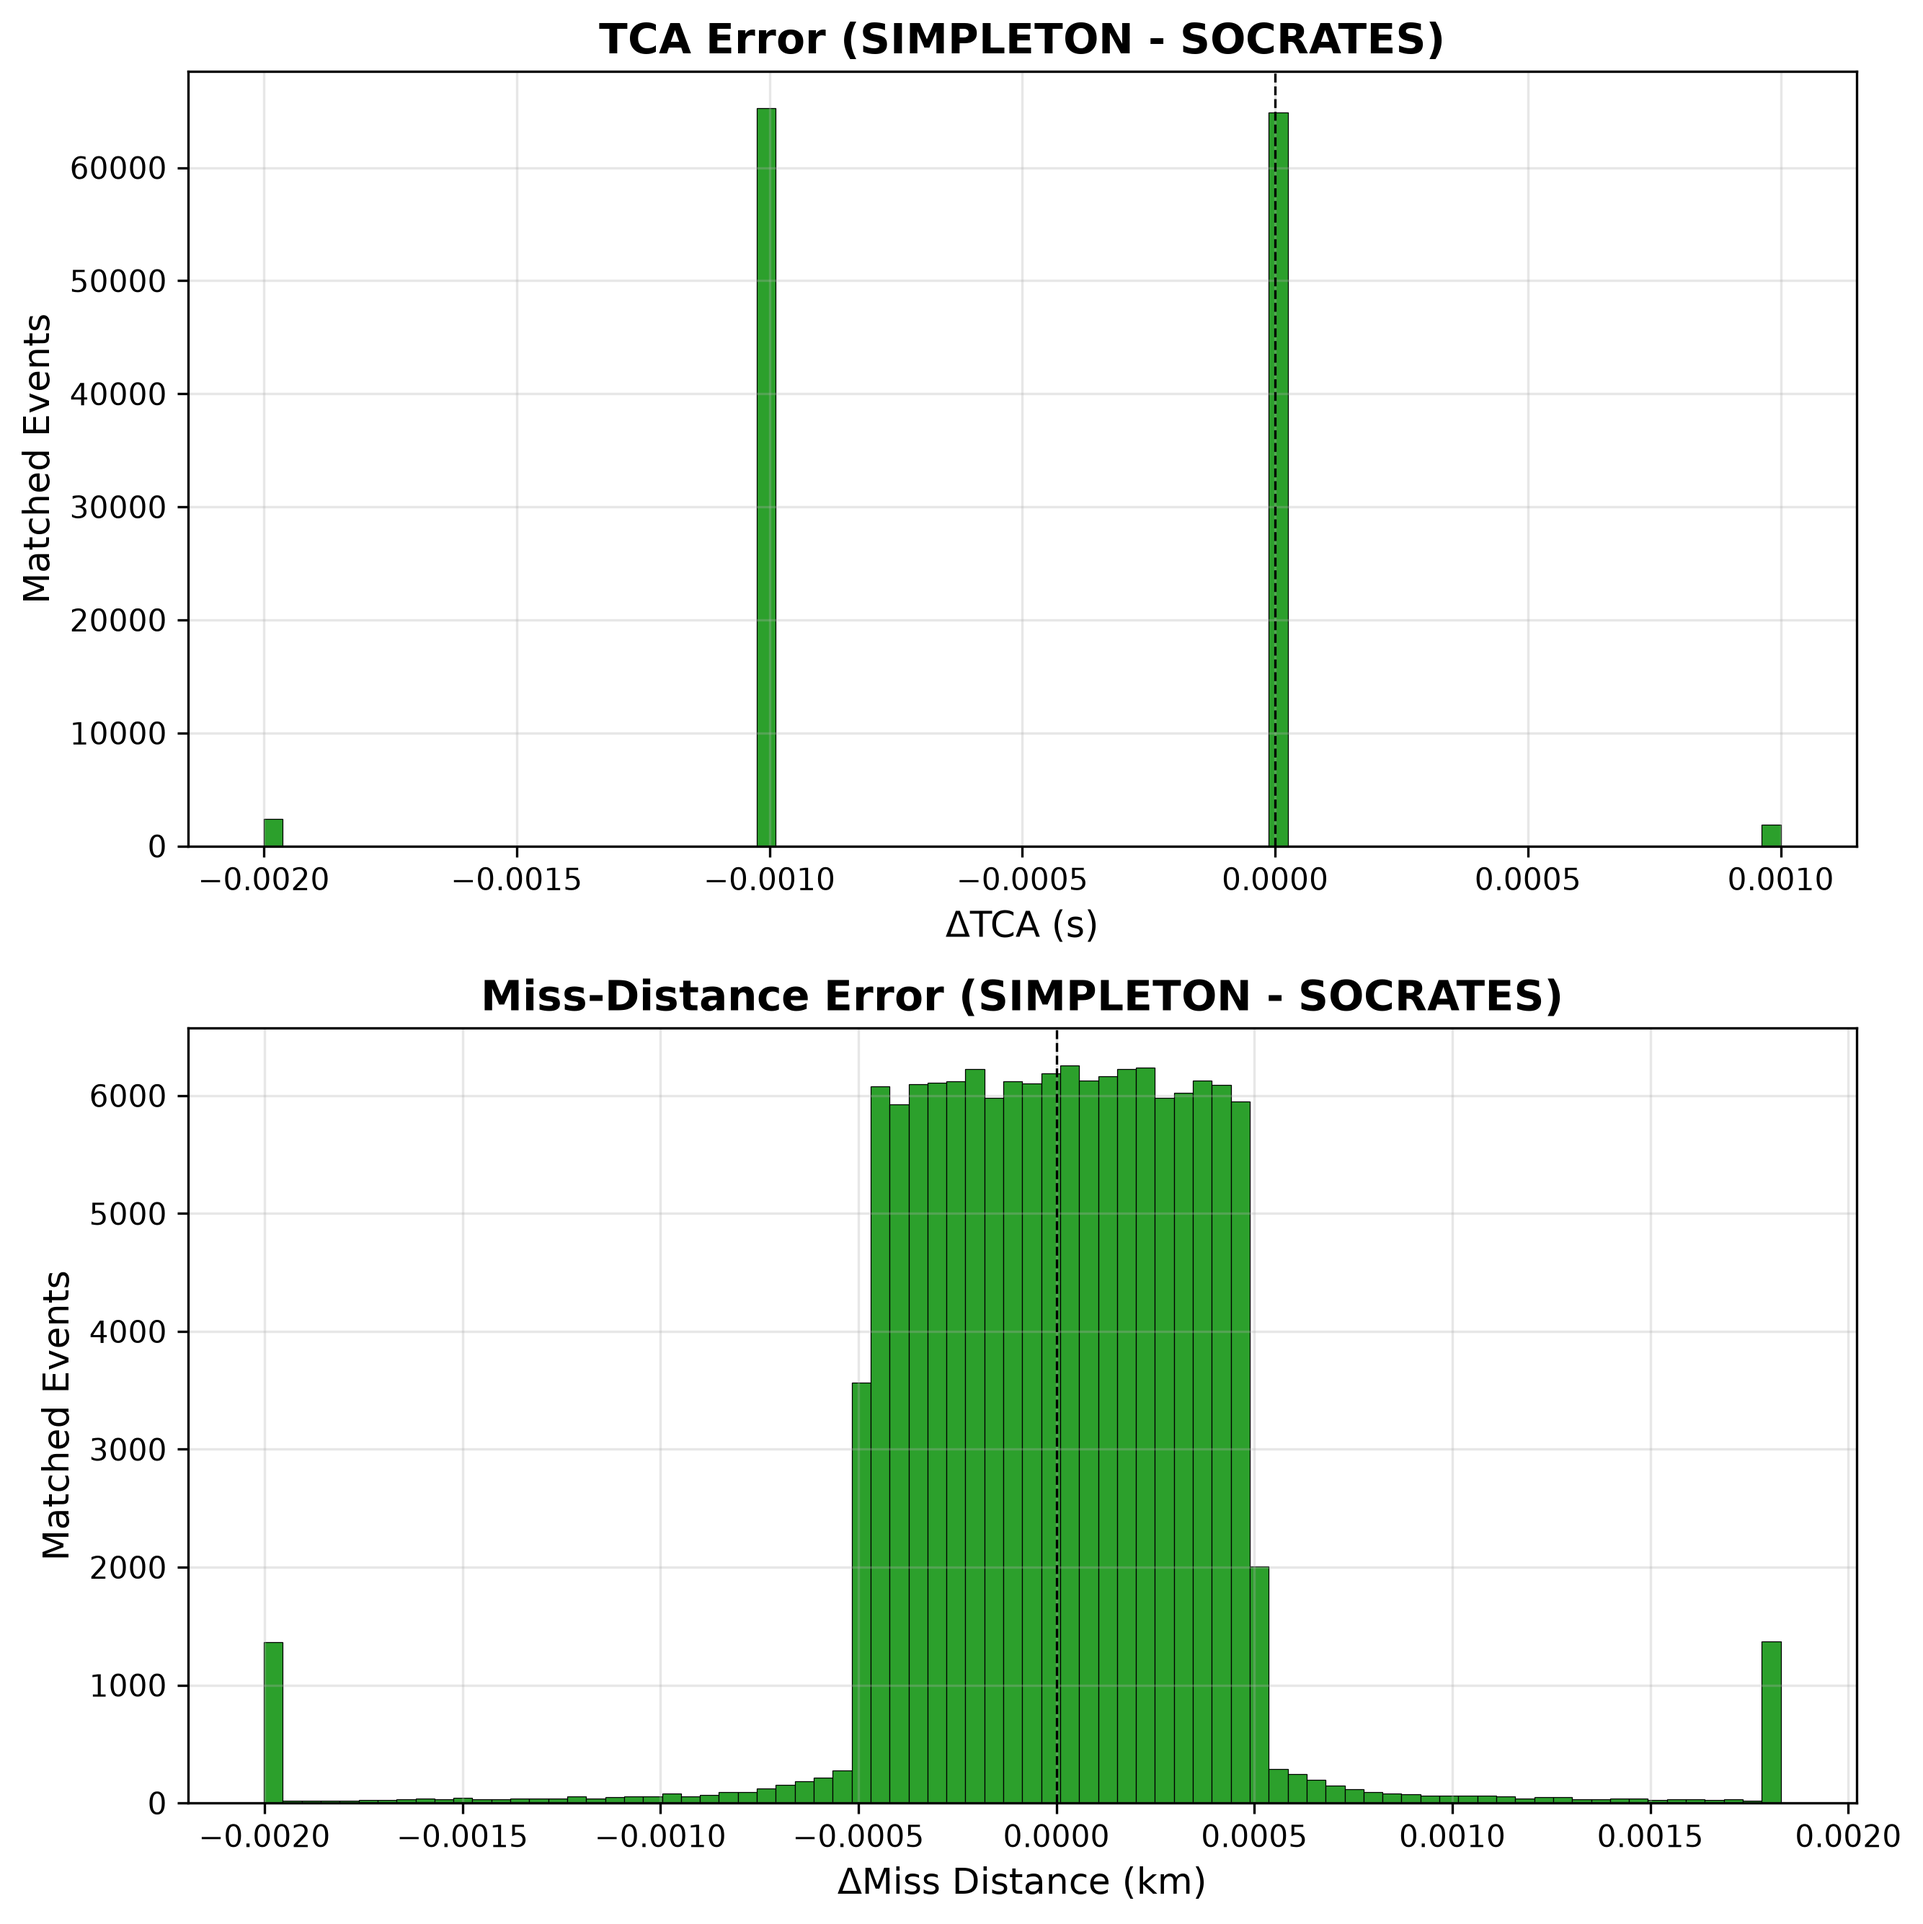
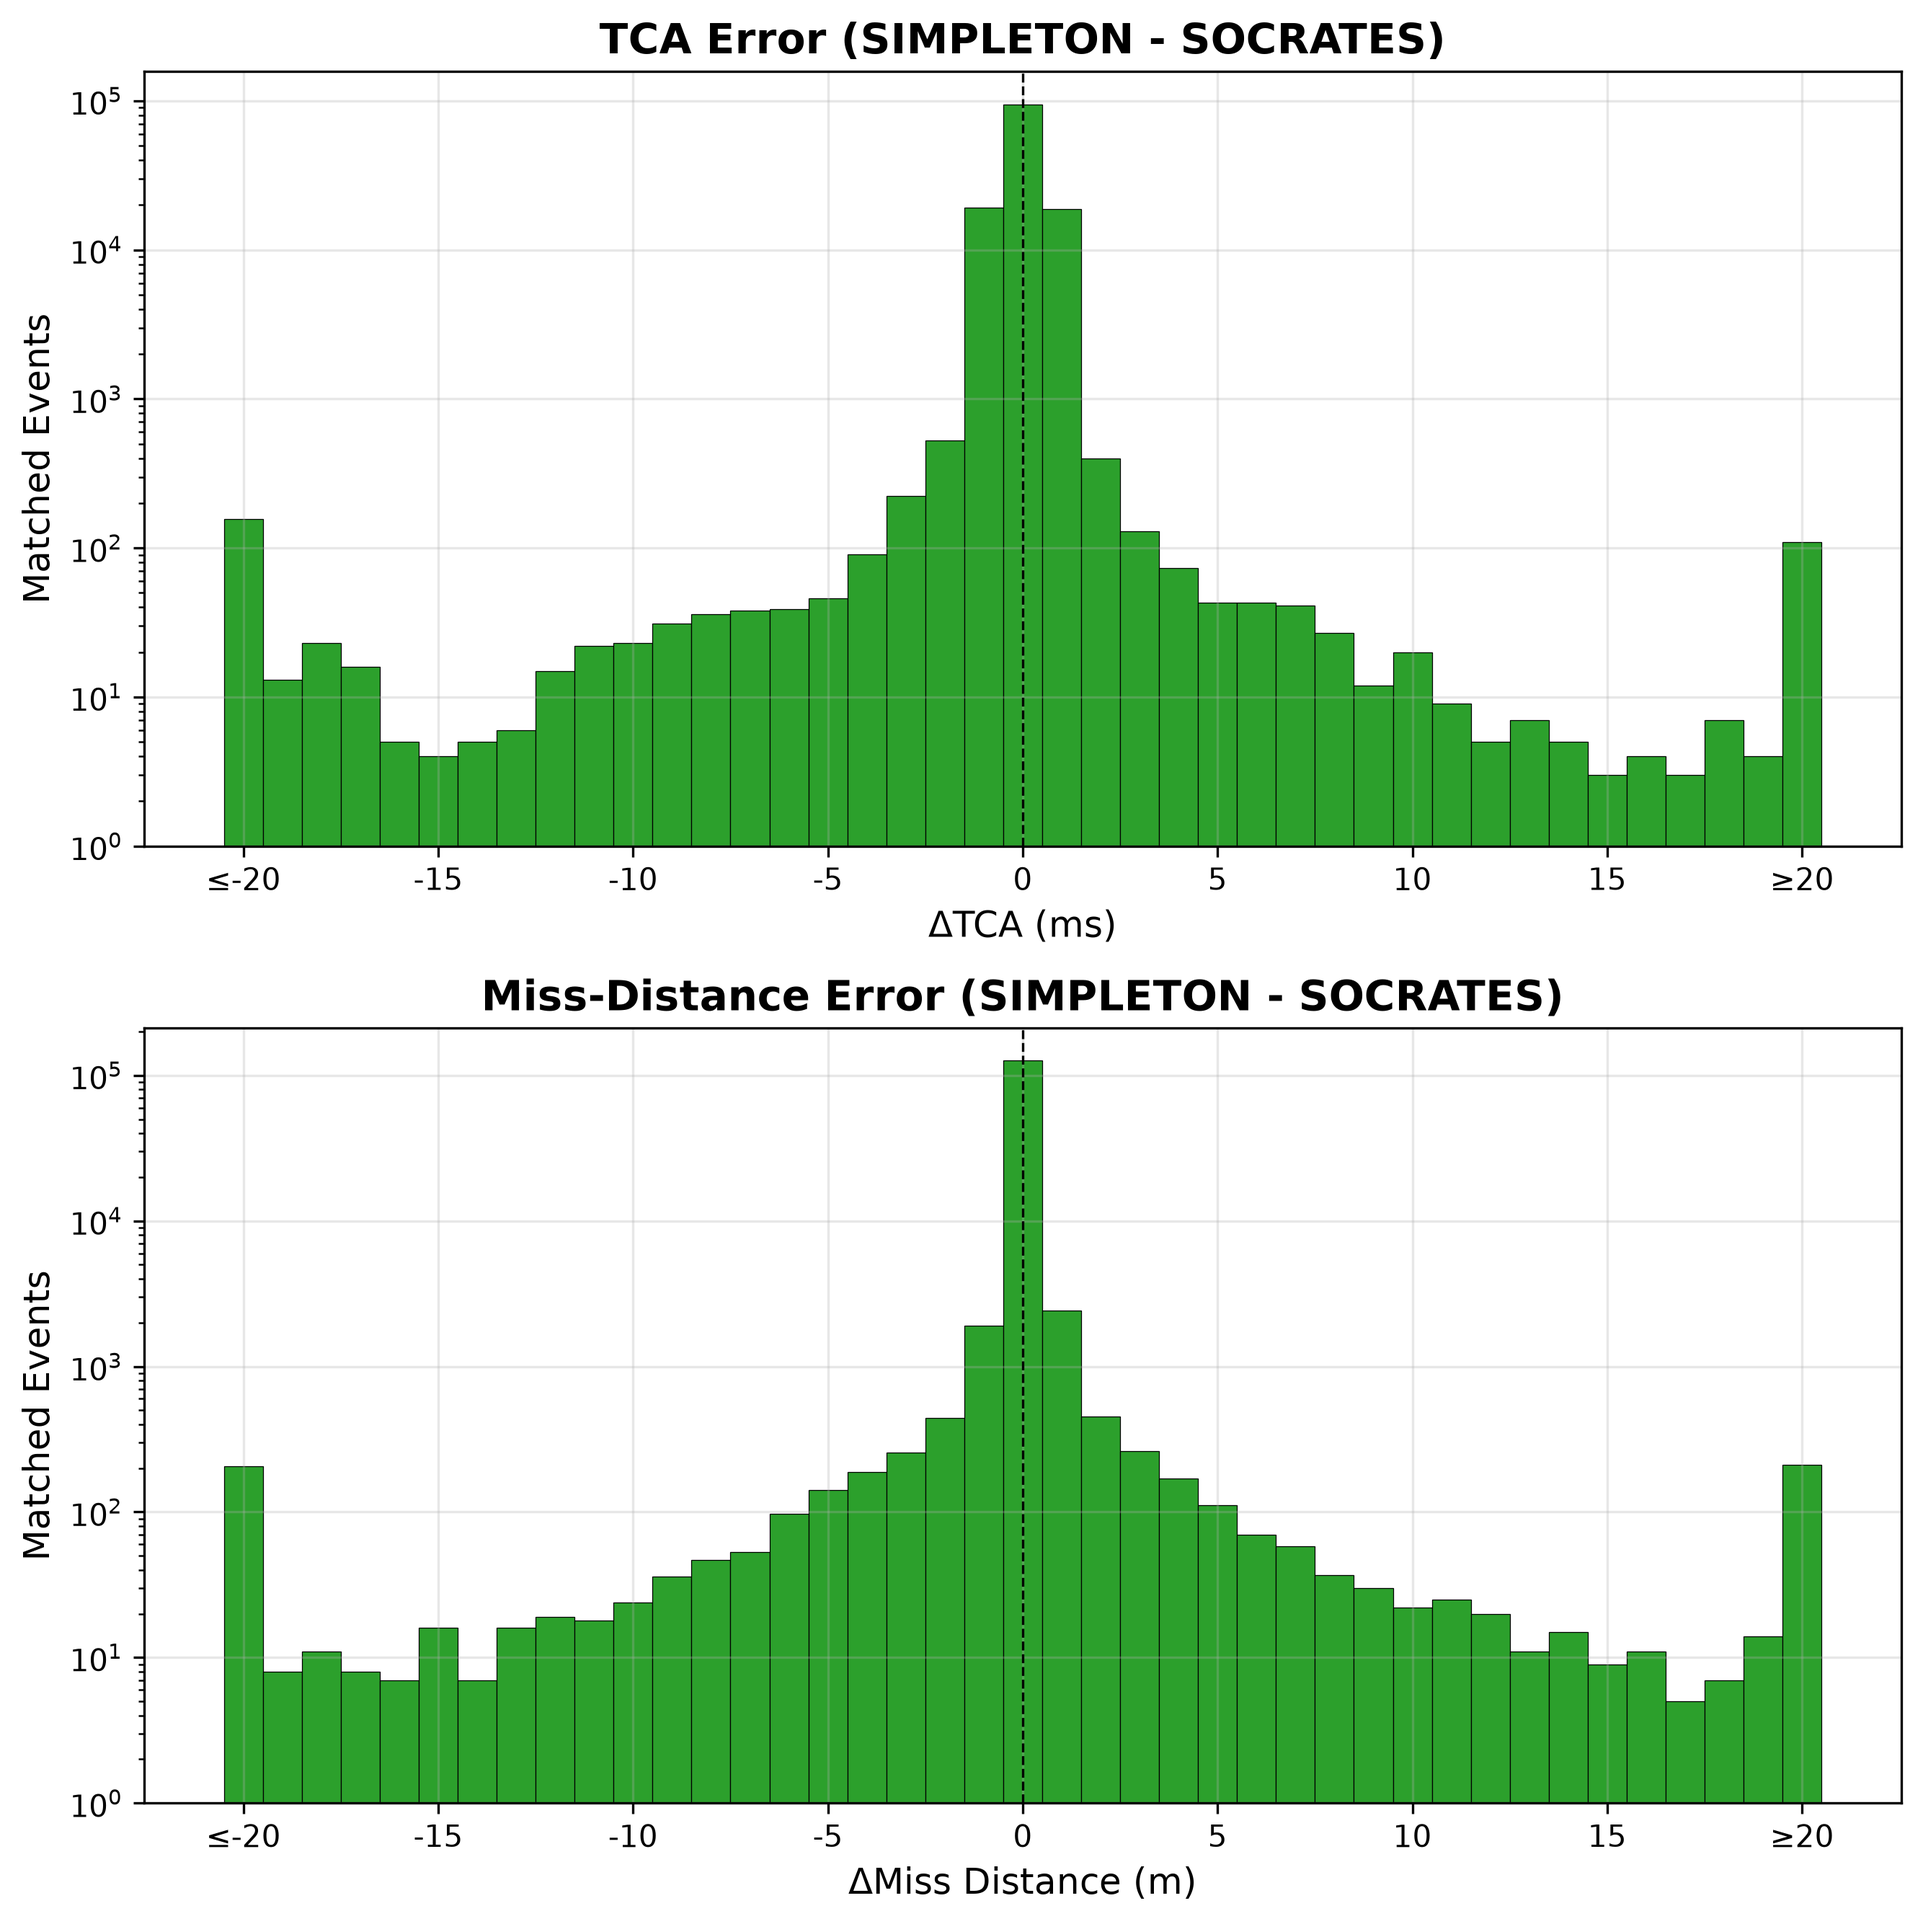
Fix SOCRATES comparison to use its published resolution

diff --git a/docs/7-socrates-comparison/compare.py b/docs/7-socrates-comparison/compare.py
@@ -9,7 +9,6 @@ from pathlib import Path
 
 import matplotlib.pyplot as plt
 import numpy as np
-from matplotlib.ticker import MaxNLocator
 import pandas as pd
 
 HERE = Path(__file__).resolve().parent
@@ -81,8 +80,9 @@ def match_events(soc, ours, tol_sec):
     matched_mask = m["oid"].notna()
     matched = m.loc[matched_mask].copy()
     matched["delta_tca_sec"] = (matched["tca_ours"] - matched["tca_socrates"]).dt.total_seconds()
-    matched["delta_miss_km"] = matched["miss_ours_km"] - matched["miss_socrates_km"]
-    matched["delta_rel_speed_kms"] = matched["rel_speed_ours_kms"] - matched["rel_speed_socrates_kms"]
+    matched["delta_miss_km"] = (matched["miss_ours_km"].round(3) - matched["miss_socrates_km"]).round(3)
+    matched["delta_rel_speed_kms"] = (matched["rel_speed_ours_kms"].round(3)
+                                      - matched["rel_speed_socrates_kms"]).round(3)
     matched = matched[[
         "norad_lo", "norad_hi", "tca_socrates", "tca_ours", "delta_tca_sec",
         "miss_socrates_km", "miss_ours_km", "delta_miss_km",
@@ -113,21 +113,28 @@ def match_events(soc, ours, tol_sec):
 def stats(label, x):
     if x.empty:
         return f"{label}: (empty)"
-    return f"{label}: median={x.median():.4f}  p95={x.abs().quantile(0.95):.4f}"
+    return f"{label}: identical={(x == 0).mean() * 100:.1f}%  within 1={(x.abs() <= 1).mean() * 100:.1f}%"
 
 
 def plot_error_histograms(matched, path):
     if matched.empty:
         return
+    window = 20
+    bins = np.arange(-window - 0.5, window + 1)
+    ticks = np.arange(-window, window + 1, 5)
+    labels = [f"≤{t}" if t == -window else f"≥{t}" if t == window else str(t) for t in ticks]
     specs = [
-        (matched["delta_tca_sec"], "TCA Error (SIMPLETON - SOCRATES)", "ΔTCA (s)"),
-        (matched["delta_miss_km"], "Miss-Distance Error (SIMPLETON - SOCRATES)", "ΔMiss Distance (km)"),
+        (matched["delta_tca_sec"], "TCA Error (SIMPLETON - SOCRATES)", "ΔTCA (ms)"),
+        (matched["delta_miss_km"], "Miss-Distance Error (SIMPLETON - SOCRATES)", "ΔMiss Distance (m)"),
     ]
     fig, axes = plt.subplots(2, 1, figsize=(9, 9))
     for ax, (values, title, xlabel) in zip(axes, specs):
-        lo, hi = values.quantile(0.01), values.quantile(0.99)
-        ax.hist(values.clip(lo, hi), bins=80, color="#2ca02c", edgecolor="black", linewidth=0.3)
+        ax.hist((values * 1000).round().clip(-window, window), bins=bins,
+                color="#2ca02c", edgecolor="black", linewidth=0.3)
         ax.axvline(0, color="black", linewidth=0.8, linestyle="--")
+        ax.set_yscale("log")
+        ax.set_ylim(bottom=1)
+        ax.set_xticks(ticks, labels)
         ax.set_xlabel(xlabel, fontsize=12)
         ax.set_ylabel("Matched Events", fontsize=12)
         ax.set_title(title, fontsize=14, fontweight="bold")
@@ -212,31 +219,24 @@ def time_bucket_overlap(soc, ours, window_start, bucket_hours, n_buckets):
     return df
 
 
-def plot_missed_events(missed, path):
+def plot_missed_events(missed, matched, path):
     if missed.empty:
         return
-    fig, (ax1, ax2) = plt.subplots(1, 2, figsize=(16, 5))
-
-    ax1.hist(missed["miss_distance_km"], bins=50, range=(0, 5),
-             color="#D62839", edgecolor="black", linewidth=0.3)
-    ax1.set_xlabel("SOCRATES Miss Distance (km)", fontsize=12)
-    ax1.set_ylabel("Events", fontsize=12)
-    ax1.set_title("By Reported Miss Distance", fontsize=12, fontweight="bold")
-    ax1.set_xlim(0, 5)
-    ax1.yaxis.set_major_locator(MaxNLocator(integer=True, steps=[1, 2, 5, 10]))
-    ax1.grid(True, alpha=0.3)
-
-    vel_hi = max(15.0, float(missed["relative_speed_km_s"].max()))
-    ax2.hist(missed["relative_speed_km_s"], bins=50, range=(0, vel_hi),
-             color="#2A6F97", edgecolor="black", linewidth=0.3)
-    ax2.set_xlabel("SOCRATES Relative Velocity (km/s)", fontsize=12)
-    ax2.set_ylabel("Events", fontsize=12)
-    ax2.set_title("By Reported Relative Velocity", fontsize=12, fontweight="bold")
-    ax2.set_xlim(0, vel_hi)
-    ax2.yaxis.set_major_locator(MaxNLocator(integer=True, steps=[1, 2, 5, 10]))
-    ax2.grid(True, alpha=0.3)
-
-    fig.suptitle("SOCRATES-Only Events", fontsize=14, fontweight="bold")
+    fig, ax = plt.subplots(figsize=(10, 6))
+    ax.scatter(matched["rel_speed_socrates_kms"], matched["miss_socrates_km"],
+               s=1.5, color="black", alpha=0.25, linewidths=0, rasterized=True,
+               label=f"Matched (n={len(matched):,})")
+    ax.scatter(missed["relative_speed_km_s"], missed["miss_distance_km"],
+               s=22, color="#d4a34a", edgecolor="black", linewidth=0.4, zorder=3,
+               label=f"SOCRATES-only (n={len(missed)})")
+    ax.axhline(5, color="black", linewidth=0.8, linestyle="--")
+    ax.set_xlabel("SOCRATES Relative Velocity (km/s)", fontsize=12)
+    ax.set_ylabel("SOCRATES Miss Distance (km)", fontsize=12)
+    ax.set_title("SOCRATES-Only Events Against the Matched Population", fontsize=14, fontweight="bold")
+    ax.set_ylim(0, 5.1)
+    legend = ax.legend(loc="lower left", bbox_to_anchor=(0.06, 0.01))
+    legend.legend_handles[0].set_alpha(1)
+    legend.legend_handles[0].set_sizes([10])
     fig.tight_layout()
     fig.savefig(path, dpi=300, bbox_inches="tight")
     plt.close(fig)
@@ -258,13 +258,13 @@ def main():
     print(f"\nPer-day overlap")
     time_bucket_overlap(soc, ours, WINDOW_START, 24, WINDOW_HOURS // 24)
 
-    plot_missed_events(soc_un, HERE / "2_missed_events.png")
+    plot_missed_events(soc_un, matched, HERE / "2_missed_events.png")
 
     if not matched.empty:
         print(f"\nErrors on matched events")
-        print(f"  {stats('  dTCA (s)         ', matched['delta_tca_sec'])}")
-        print(f"  {stats('  d miss-dist (km) ', matched['delta_miss_km'])}")
-        print(f"  {stats('  d rel-speed(km/s)', matched['delta_rel_speed_kms'])}")
+        print(f"  {stats('  dTCA (ms)        ', (matched['delta_tca_sec'] * 1000).round())}")
+        print(f"  {stats('  d miss-dist (m)  ', (matched['delta_miss_km'] * 1000).round())}")
+        print(f"  {stats('  d rel-speed (m/s)', (matched['delta_rel_speed_kms'] * 1000).round())}")
         plot_error_histograms(matched, HERE / "1_errors.png")
 
 

diff --git a/src/main/java/io/salad109/conjunctiondetector/conjunction/internal/benchmark/SocratesComparisonBenchmark.java b/src/main/java/io/salad109/conjunctiondetector/conjunction/internal/benchmark/SocratesComparisonBenchmark.java
@@ -25,6 +25,7 @@ import java.time.Duration;
 import java.time.OffsetDateTime;
 import java.time.ZoneOffset;
 import java.time.format.DateTimeFormatter;
+import java.time.temporal.ChronoUnit;
 import java.util.ArrayList;
 import java.util.List;
 import java.util.Locale;
@@ -135,7 +136,8 @@ public class SocratesComparisonBenchmark implements CommandLineRunner {
         for (Conjunction c : conjunctions) {
             sb.append(c.getObject1NoradId()).append(',')
                     .append(c.getObject2NoradId()).append(',')
-                    .append(c.getTca().withOffsetSameInstant(ZoneOffset.UTC).format(tcaFormat)).append(',')
+                    .append(c.getTca().withOffsetSameInstant(ZoneOffset.UTC).plusNanos(500_000)
+                            .truncatedTo(ChronoUnit.MILLIS).format(tcaFormat)).append(',')
                     .append(String.format(Locale.ROOT, "%.6f", c.getMissDistanceKm())).append(',')
                     .append(String.format(Locale.ROOT, "%.6f", c.getRelativeVelocityMS() / 1000.0)).append(',')
                     .append(String.format(Locale.ROOT, "%.6e", c.getCollisionProbability()))

diff --git a/README.md b/README.md
@@ -11,7 +11,7 @@ in about 20 seconds on consumer hardware.
 
 Validated against [CelesTrak SOCRATES](https://celestrak.org/SOCRATES/): when filtered to equivalent scope
 (payload-vs-catalog, excluding intra-constellation pairs) and given identical TLE input, 99.9% of SOCRATES events are
-also flagged by this pipeline, with TCA agreeing to 1 ms and miss distance to 0.5 m at p95 - see
+also flagged by this pipeline, with 98% of TCAs agreeing to within 1 ms and 98% of miss distances to within 1 m - see
 [Validation](#validation) below for the breakdown. Full all-vs-all screening finds ~58,000 conjunctions per 24h window,
 including secondary pairs that SOCRATES excludes.
 
@@ -88,7 +88,13 @@ SOCRATES. Agreement is flat at 99.7%+ across all seven days.
 
 ![ΔTCA and Δmiss-distance error distributions vs SOCRATES](docs/7-socrates-comparison/1_errors.png)
 
-On matched events, TCA agrees to 1 ms and miss distance to 0.5 m at p95.
+On matched events, 98.3% of TCAs agree with SOCRATES to within 1 ms, and 97.7% of miss distances to within 1 m.
+
+![SOCRATES-only events against the matched population](docs/7-socrates-comparison/2_missed_events.png)
+
+The 126 SOCRATES-only events sit at two edges of the matched population: 119 slow co-orbiting pairs, which this
+pipeline reports once at their closest approach where SOCRATES reports every approach, and 7 that straddle the 5 km
+threshold.
 
 Methodology, TLE replication procedure, and analysis of the remaining 0.1% available
 at [docs/7](docs/7-socrates-comparison).

diff --git a/docs/7-socrates-comparison/README.md b/docs/7-socrates-comparison/README.md
@@ -67,15 +67,15 @@ closest approach are within 1 minute of each other.
 
 ## Physics agreement on matched events
 
-For the 134,472 events both pipelines flag:
+134,472 events both pipelines flag, compared at SOCRATES's published resolution:
 
-|               Quantity | Median |    p95 |
-|-----------------------:|-------:|-------:|
-|               ΔTCA (s) | -0.001 |  0.001 |
-|    Δmiss-distance (km) | 0.0000 | 0.0005 |
-| Δrelative-speed (km/s) |     ~0 | 0.0005 |
+|              Quantity | Identical | Within ±1 |
+|----------------------:|----------:|----------:|
+|             ΔTCA (ms) |     69.9% |     98.3% |
+|    Δmiss-distance (m) |     94.4% |     97.7% |
+| Δrelative-speed (m/s) |     99.9% |    100.0% |
 
-TCA agrees to **1 ms** and miss distance to **0.5 m** at p95.
+**98.3%** of TCAs agree with SOCRATES to within 1 ms, and **97.7%** of miss distances to within 1 m.
 
 ![ΔTCA and Δmiss-distance error distributions](1_errors.png)
 
@@ -95,7 +95,7 @@ Agreement is flat at 99.7%+ across all seven days.
 
 ## The remaining 0.1%
 
-![SOCRATES-only events, by reported miss distance and relative velocity](2_missed_events.png)
+![SOCRATES-only events, by reported miss distance and relative velocity, against the matched population](2_missed_events.png)
 
 **126 SOCRATES only.** 119 close below 325 m/s: slow co-orbiting pairs that survived the 10 m/s filter.
 Between passes such a pair stays inside the 93.7 km tolerance, so its successive approaches form one run of detections
